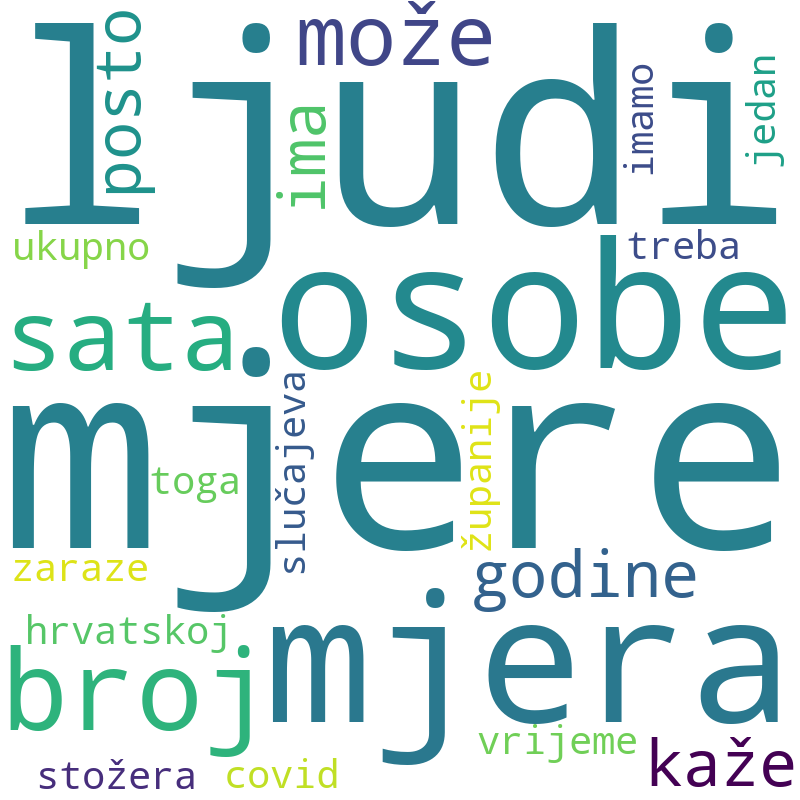
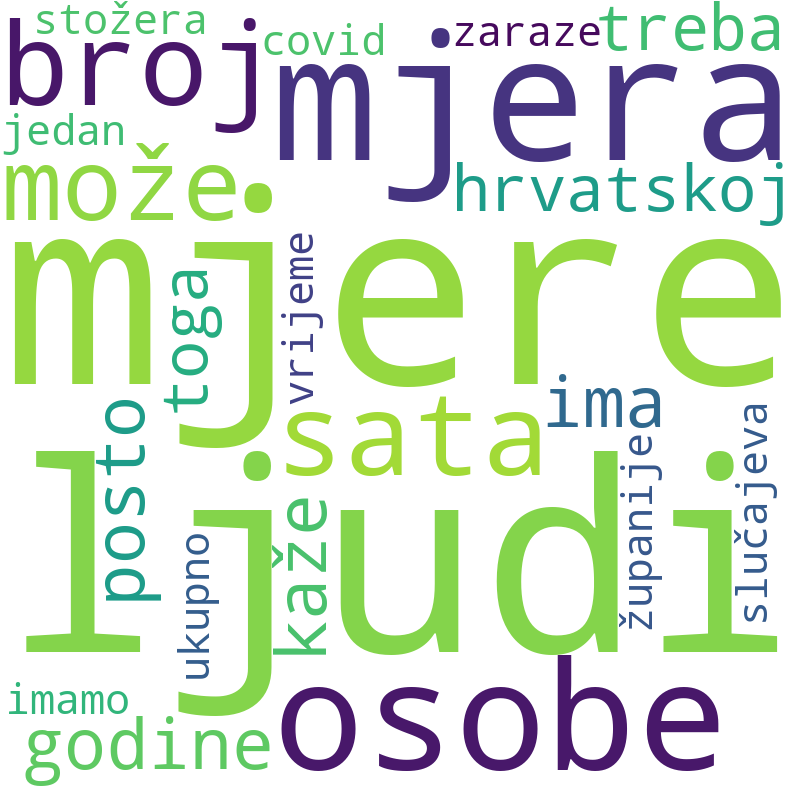
Documentation finished

diff --git a/README.md b/README.md
@@ -31,8 +31,6 @@ __Drugi dio__ projekta uključuje analizu prikupljenjih podataka. Analiza je fok
  * Libraries
     * _requirements.txt_ priložen u projektu
 
-
-
 <br>
 
 <div style="text-align:center" >
@@ -207,7 +205,7 @@ Pie chart u nastavku prikazuje iste podatke prikazane u obliku prikladnijem za p
 
 <div style="text-align:center" >
 
-<img src="graphing/table_visualization/pie_total.png" width="500">
+<img src="graphing/table_visualization/pie_total.png" width="600">
 
 </div>
 
@@ -252,7 +250,7 @@ Pie chart prikazuje omjere između kategorija po zastupljenosti COVID-19 članak
 
 <div style="text-align:center" >
 
-<img src="graphing/table_visualization/pie_category_covid.png" width="500">
+<img src="graphing/table_visualization/pie_category_covid.png" width="600">
 
 </div>
 
@@ -291,8 +289,157 @@ __Druga faza__ rada skripte je stvaranje liste zaustavnih riječi. To su riječi
 
 Micanje tih riječi je realizirano stvaranjem "sirovih" baza riječi u mapi _input/raw_stopw/_ koje se jednostavnom funkcijom spajaju u jedinstveni riječnik. Taj riječnik (_stop_words_merged.txt_) sadrži riječi koje kroz obradu moraju biti izbačene. Iteriranjem kroz datoteku _portal_cvoid_isolated.csv_ izbacuju se zaustavne riječi.
 
-__Treća faza__ rada se odnosi na stvaranje mjesečnog pregleda 25 najzastupljenijih riječi. Ovisno o mjesecu, u portalima se prebrojavaju riječi, te se gradi lista od 25 najčešćih riječi kojima se portal koristi u svakodnevnom radu. Te su liste spremljene u obliku _.csv_ datoteka u _output/word_frequencies/_, a njihove su tablice i grafovi prikazani u nastavku.
+__Treća faza__ rada se odnosi na stvaranje mjesečnog pregleda 25 najzastupljenijih riječi. Ovisno o mjesecu, u portalima se prebrojavaju riječi, te se gradi lista od 25 najčešćih riječi kojima se portal koristi u svakodnevnom radu. Te su liste spremljene u obliku _.csv_ datoteka u _output/word_frequencies/_, a njihove su tablice i grafovi prikazani u nastavku. Pritom su rezultati vizualizirani koristeći paket _wordcloud_, u njemu se riječi prezentiraju prema veličini ovisno o frekventnosti.
 
+
+### Siječanj
+
+<div style="text-align:center">
+
+<img src="images/table_1.PNG" width="300">
+
+<img src="graphing\word_frequencies\word_frequency_1.png" width="300">
+
+</div>
+
+### Veljača
+
+<div style="text-align:center">
+
+<img src="images/table_2.PNG" width="300">
+
+<img src="graphing\word_frequencies\word_frequency_2.png" width="300">
+
+</div>
+
+### Ožujak
+
+<div style="text-align:center">
+
+<img src="images/table_3.PNG" width="300">
+
+<img src="graphing\word_frequencies\word_frequency_3.png" width="300">
+
+</div>
+
+### Travanj
+
+<div style="text-align:center">
+
+<img src="images/table_4.PNG" width="300">
+
+<img src="graphing\word_frequencies\word_frequency_4.png" width="300">
+
+</div>
+
+### Svibanj
+
+<div style="text-align:center">
+
+<img src="images/table_5.PNG" width="300">
+
+<img src="graphing\word_frequencies\word_frequency_5.png" width="300">
+
+</div>
+
+### Lipanj
+
+<div style="text-align:center">
+
+<img src="images/table_6.PNG" width="300">
+
+<img src="graphing\word_frequencies\word_frequency_6.png" width="300">
+
+</div>
+
+### Srpanj
+
+<div style="text-align:center">
+
+<img src="images/table_7.PNG" width="300">
+
+<img src="graphing\word_frequencies\word_frequency_7.png" width="300">
+
+</div>
+
+### Kolovoz
+
+<div style="text-align:center">
+
+<img src="images/table_8.PNG" width="300">
+
+<img src="graphing\word_frequencies\word_frequency_8.png" width="300">
+
+</div>
+
+### Rujan
+
+<div style="text-align:center">
+
+<img src="images/table_9.PNG" width="300">
+
+<img src="graphing\word_frequencies\word_frequency_9.png" width="300">
+
+</div>
+
+### Listopad
+
+<div style="text-align:center">
+
+<img src="images/table_10.PNG" width="300">
+
+<img src="graphing\word_frequencies\word_frequency_10.png" width="300">
+
+</div>
+
+### Studeni
+
+<div style="text-align:center">
+
+<img src="images/table_11.PNG" width="300">
+
+<img src="graphing\word_frequencies\word_frequency_11.png" width="300">
+
+</div>
+
+Pregledom svih grafova je utvrđena frekventnost 25 najkorištenijih riječi za svaki mjesec. Pomnijom analizom se može uočiti da se najkorištenije riječi odnose na tada tek završene predsjedničke izbore gdje su frekventne riječi. Tu je zastupljeno i ime tada aktualne bivše predsjednice Kolinde Grabar-Kitarović. Tu je također riječ predsjednik vjerojatno korištena u kontekstu novoizabranog predsjednika. Stožer za razliku od današnjeg je tada podrazumijevao izborni stožer kandidata za predsjednika. Također, vidljivo je da je portal jako fokusiran na splitsko područje po korištenju riječi Marjan i Split. 
+
+Valja napomenuti da se radi o lažno klasificiranim podacima pod COVID statistiku budući da se neki slični termini kao što je "stožer" može biti korišten u kontekstu izbornog stožera i Stožera civilne zaštite. Radi se o razdoblju u kojem portali o tematici virusa nisu raspravljali, tako da tablicu za prvi mjesec nema smisla uključivati u analizu.
+
+U Veljači se tonalitet mijenja. Koronavirus tematika postaje _de facto_ središnja tema na portalu te se u frekventnim riječima osim riječi koronavirus (i njegove varijacije) može pronaći i riječ Italiji. Italija se spominje zbog činjenice da je u drugom mjesecu bila jedna od najpogođenijih zemlja, pa nije ni čudno da se našla na toj listi.
+
+Od veljače do danas se frekventne riječi nisu previše mijenjale. Broj riječi je određen trenutnom situacijom, što znači da se formira ovisno o mjerama i broju bolesnih. Visoko na listi se u svakom slučaju nalazi riječ ljudi, osobe i broj što je očekivano budući da se portal kao i svaki najviše obazire na nove broje iz dana u dan. Također je uočljivo da se u listi ponavlja broj 24 kao često ponavljana riječ. To je očekivano budući da većina izjava na tu temu počinje sa "U posljednja 24 sata...". 
+
+Problem u ovoj vrsti analize predstavljaju promijenjive vrste riječi koje zagađuju konačnu listu od 25 riječi. Eliminacija takvih riječi bi vjerojatno dala puno bolje rezultate, ali čak i sada je moguće izvući neku interpretaciju. Iz riječi se po mjesecima može zaključiti da portal ne iznosi previše mišljenja na temu virusa, već da iz dana u dan izvještava o brojkama novozaraženih te o prenošenju izjava vladajućih na aktualnu temu.
+
+### __Jaccardov indeks__
+
+Odnos korištenih riječi na mjesečnoj bazi možemo prikazati [Jaccardovim indeksom](https://en.wikipedia.org/wiki/Jaccard_index) kojim dobivamo uvid u presjek skupova unije. Radi se o koeficijentu koju u odnosu na broj sličnosti između dva promatrana skupa rezultira u broju između 0 i 1. Ukoliko je broj bliže 1, postoji veća sličnost, dok ukoliko je broj manji od jedan, postoji manja sličnost. 
+
+Skupovi (mjeseci) su uspoređeni u paru po dvoje na način da se svaki mjesec usporedi s onim sljedećim (_Npr._ Siječanj-Veljača, Veljača-Ožujak,). Tablični i grafički prikaz su prikazani u nastavku. 
+
+U tablici je vidljiv poprilično mali presjek između vokabulara prvog i drugog mjeseca, što je i očekivano budući da zbog loše klasifikacije taj rezultat nema smisla promatrati. Što se tiče ostalih mjeseci, u pravilu je vidljiv veći presjek riječi. Vidljivo je da je vokabular između 2. i 6. mjeseca konstantan zbog ozračja u kojem se svijet nalazio. Zatim je vidljiv pad kroz 6. i 7. mjesec zbog činjenice da se virus teže širi ljeti zbog čega pada aktualnost teme. Povratkom virusa krajem ljeta, koeficijent se ponovno povećava, gdje ostaje do danas. 
+
+<br>
+
+<div style="text-align:center">
+
+<img src="images\jaccard_index.PNG" width="300">
+
+</div>
+
+<br>
+
+
+U nastavku slijedi i grafički prikaz koeficijenata presjeka dobivenog Jaccardovim indeksom.
+
+<div style="text-align:center">
+
+<img src="output/word_frequencies/jacard_bar_plot.png" width="500">
+
+</div>
+
+<br>
 
 ## Upute za pokretanje drugog dijela 
 
